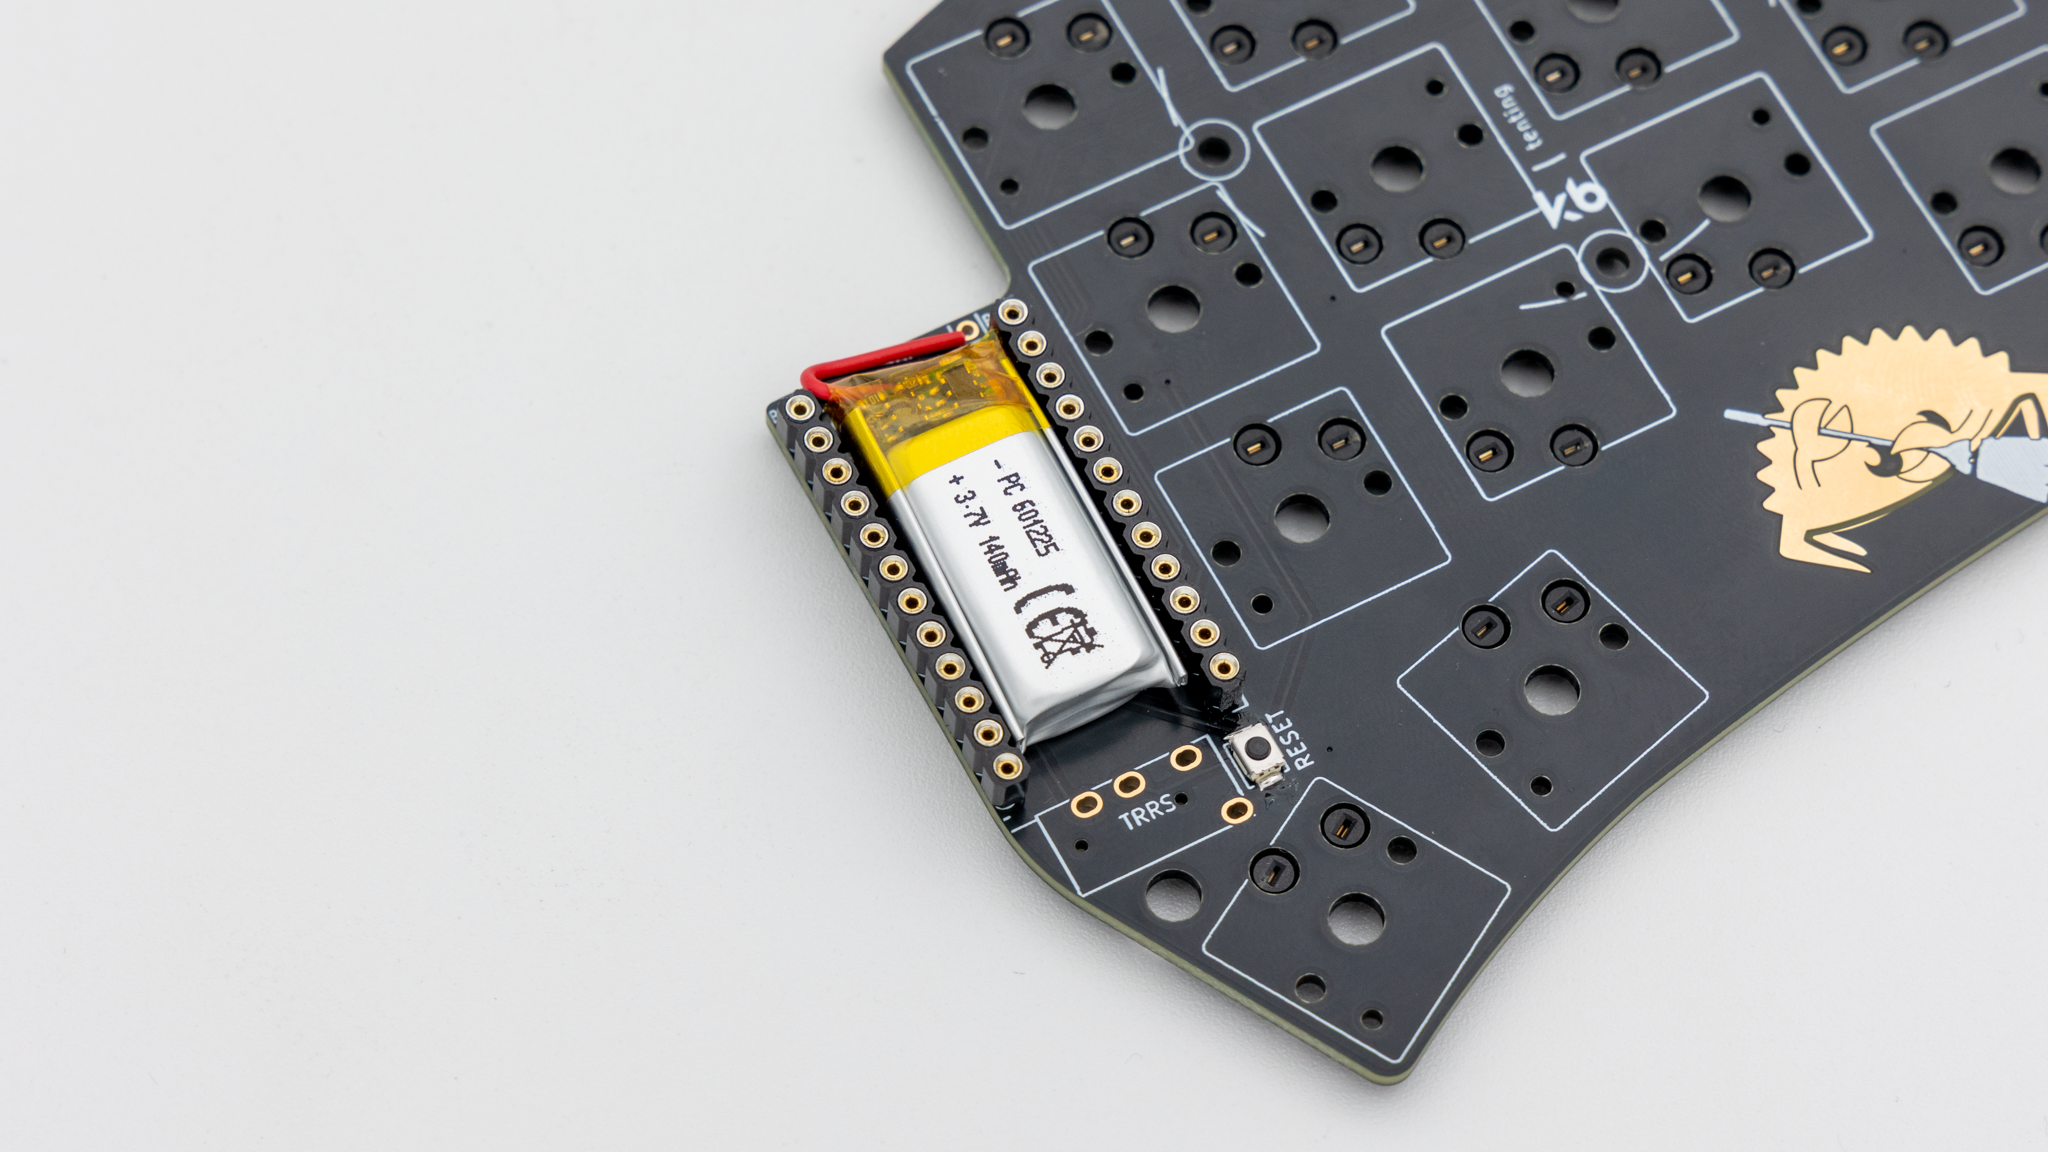
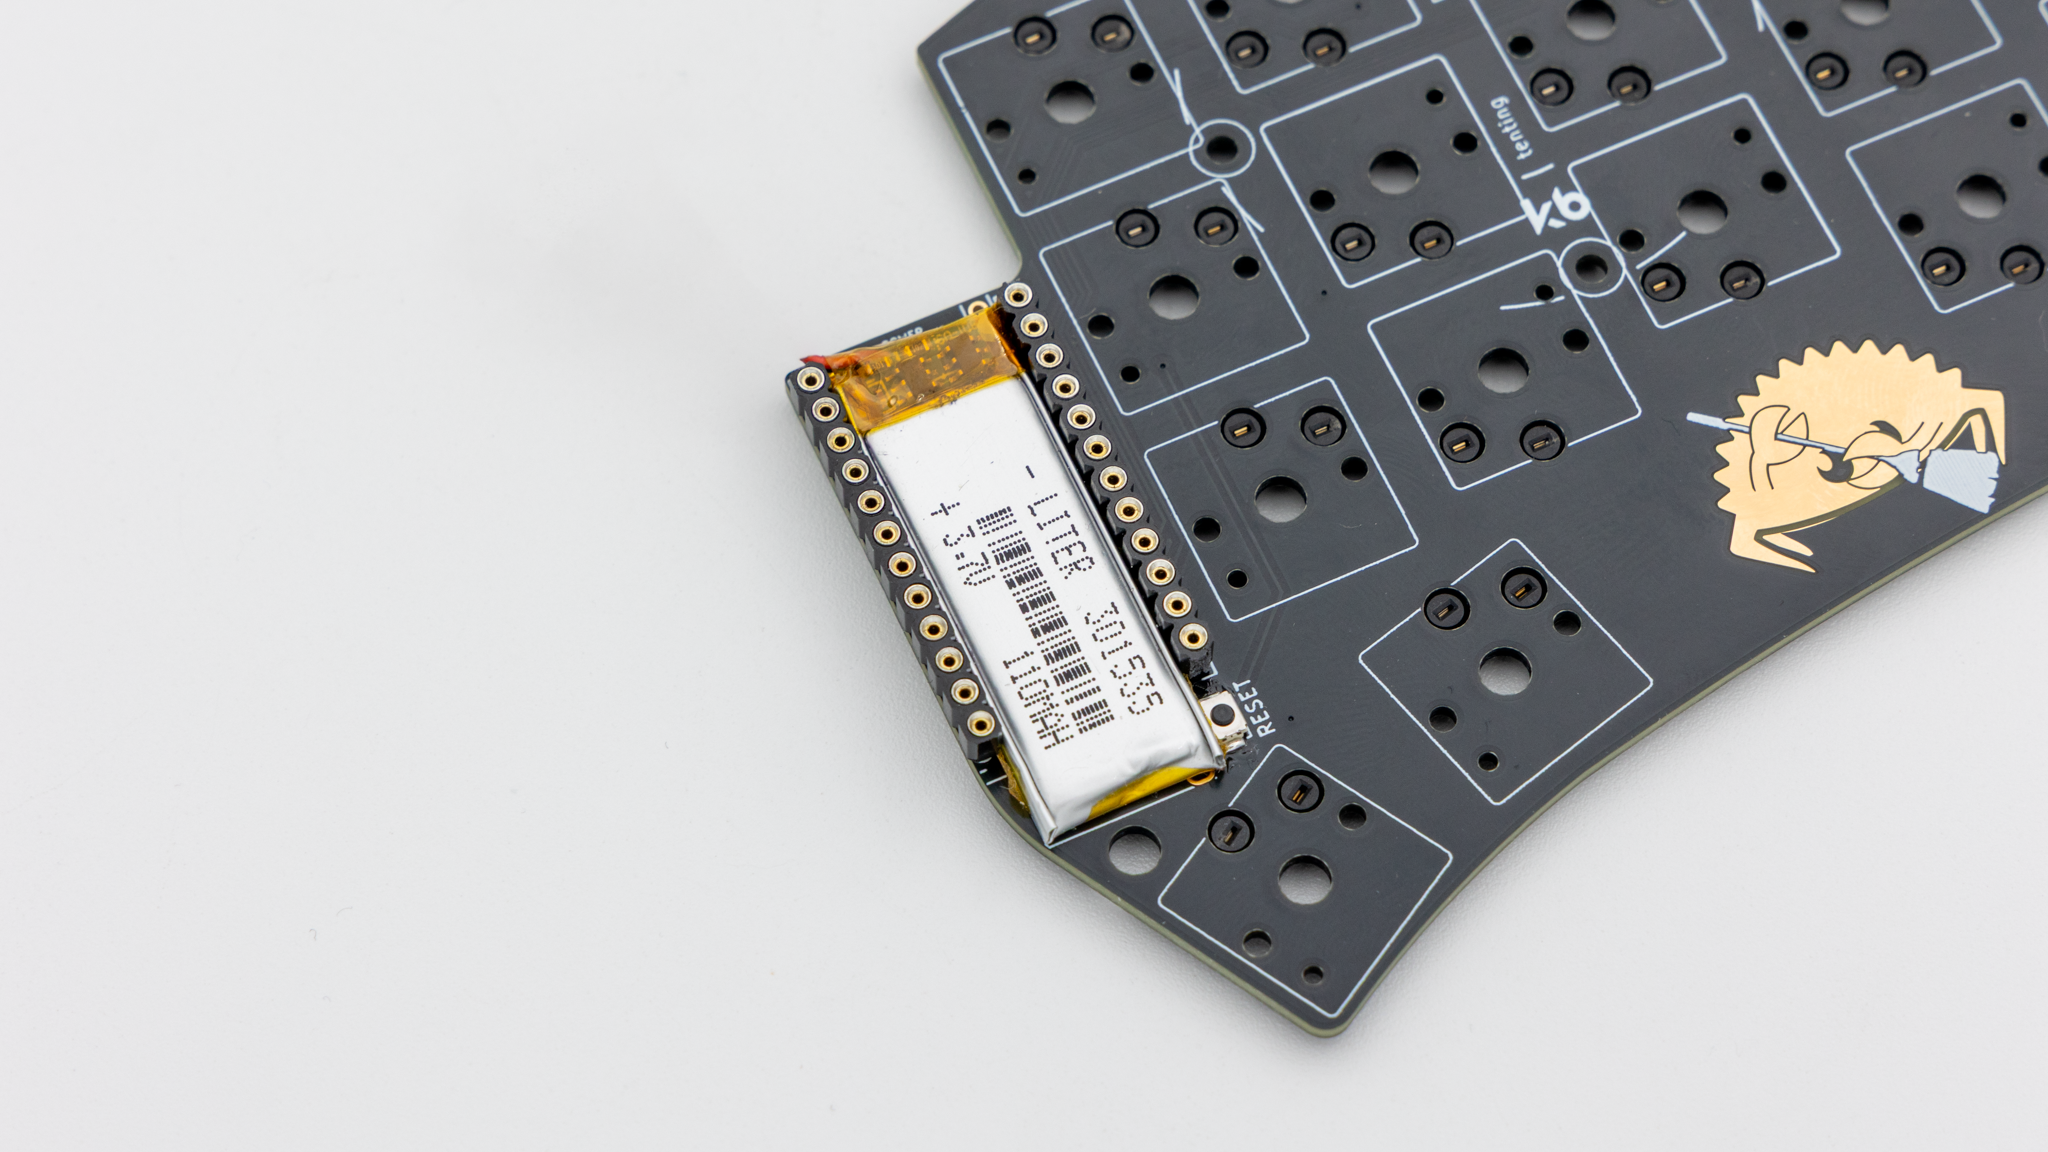
sweep bling lp inst done

Changed region(s): [[0.375, 0.0, 1.0, 0.9688], [0.6562, 0.5625, 0.6875, 0.5938]]

diff --git a/content/sweep-bling-lp/assembly/index.md b/content/sweep-bling-lp/assembly/index.md
@@ -51,19 +51,18 @@ Next solder on the standoffs for your controller. You need to use IC sockets wit
 
 #### Batteries
 
-Solder in the batteries on the marked pins at the top.
+If you bought the battery that we suggested, the fit will be quite tight. It's easiest if you slide it in from the top, since pushing it down will not work. Solder in the batteries on the marked pins at the top.
 ![batteries](battery-pcb.png)
 
 #### Controller
 
 Before soldering the controllers onto the PCB we should get your controller flashed.
-![pluto]()
+![nice!nano](nice!nano.png)
 
-Depending on which controller you use you will have to go about flashing them differently. You can find the firmware <a href="https://files.keeb.supply/firmware/DASBOB/" >here<a>. And instructions on how to flash a controller [here]({{< ref "/basics/firmware/flashing" >}}).<br>
-![qmk]()
+Depending on which controller you use you will have to go about flashing them differently. You can find the firmware <a href="https://files.keeb.supply/firmware/sweep-bling-lp/" >here<a>. And instructions on how to flash a controller [here]({{< ref "/basics/firmware/flashing" >}}).<br>
 
 Solder the controller to the headers now. Instructions on how to do that can be found [here]({{< ref "/basics/soldering/promicro#promicro" >}}). When you have the PCB in front of you, the USB port should go to the top of the PCB. You should not see the components of the controller, when it is sitting on the PCB.
-![controller]()
+![nice!nano-pcb](nice!nano-pcb.png)
 
 You can now skip to the [Final Assembly]({{< ref "/sweep-bling-lp/assembly#final-assembly" >}}) to continue.
 
@@ -89,7 +88,7 @@ Before soldering the controllers onto the PCB we should get your controller flas
 You can find the firmware <a href="https://files.keeb.supply/firmware/sweep-bling-lp/" >here<a>. And instructions on how to flash a controller [here]({{< ref "/basics/firmware/flashing" >}}).<br>
 
 Plug in your controller now and see if it pops up in [VIAL]({{< ref "/basics/firmware/viaandvial#VIAL" >}}).
-![vial]()
+![vial](sweep-vial.png)
 
 If it does you have successfully flashed your controller.
 
@@ -98,7 +97,7 @@ If your controller is working, you can solder it in. Instructions on how to do t
 
 When you have your controller soldered in, it is good practice to do a [matrix test]({{< ref "/basics/firmware/viaandvial#matrix-testing" >}}). Since the Sweep is a split keyboard, you need to plug in the two halves together using the TRRS cable.
 {{< alert icon="💡" text="Do not hotplug the TRRS cable, when your controllers are plugged into your PC. This can and will damage the board. Always unplug the keyboard from the PC, before plugging the TRRS cable in/out." />}}
-![matrix]()
+![matrix](sweep-matrix.png)
 
 You can now continue reading the Final Assembly to proceed.
 
@@ -114,4 +113,4 @@ As a last step put on your keycaps.
 ![caps](caps-pcb.png)
 
 And your Sweep keyboard is done!
-![dasbob-full-board]()
+![sweep-full-board](sweep-16-9.png)

diff --git a/content/sweep-bling-lp/required-supplies/index.md b/content/sweep-bling-lp/required-supplies/index.md
@@ -17,7 +17,7 @@ toc: true
 | -------------------------------------- | ---------------------------------------- | ---------------------------------------------------------------------------------------------------------------------- |
 |                                        |                                          |                                                                                                                        |
 | ![helios](helios.png)                  | 2 x ProMicro compatible micro controller | You will need to supply your own micro controllers. You can use a Helios for wired or a Nice!Nano for wireless builds. |
-| ![ic-socket]()                         | IC Sockets                               | You will need one IC Socket strip. This board will not work with solder headers!                                       |
-| ![millmax-pins]()                      | MillMax Pins                             | To use the IC Sockets you will need MillMax Pins.                                                                      |
+| ![ic-socket](ic-socket.png)            | 2 x IC Sockets                           | You will need one IC Socket strip per side. This board will not work with solder headers!                              |
+| ![millmax-pins](millmax.png)           | MillMax Pins                             | To use the IC Sockets you will need MillMax Pins.                                                                      |
 | ![soldering-iron](soldering-iron.webp) | soldering iron                           | We recommend a good soldering iron!                                                                                    |
 | ![solder](solder.webp)                 | solder                                   | Please use high quality solder (flux core or apply flux externally) to make your life easier when soldering this kit!  |

diff --git a/content/totem/packing-list/index.md b/content/totem/packing-list/index.md
@@ -28,8 +28,8 @@ toc: true
 | --------------------------- | ------------------------- | ------------------- |
 |                             |
 | ![case](case.jpg)           | 3D Printed Case           | 1 left<br />1 right |
-| ![standoffs](standoffs.jpg) | M2x6mm standoffs          | 8                   |
-| ![screws](screws.jpg)       | M2x6mm countersunk screws | 16                  |
+| ![standoffs](standoffs.jpg) | M2x9mm standoffs          | 8                   |
+| ![screws](screws.jpg)       | M2x5mm countersunk screws | 16                  |
 | ![feet](feet.jpg)           | rubber feet               | 8                   |
 | ![inbus](inbus.jpg)         | allen key                 | 1                   |
 

diff --git a/content/sweep-bling-lp/packing-list/index.md b/content/sweep-bling-lp/packing-list/index.md
@@ -43,5 +43,5 @@ Depending on the version, there will be different parts included in the kit.
 |                             |
 | ![switch](slide-switch.png) | Slide Switch | 2        |
 
-{{< alert icon="💡" text="To make the Ble version of the Sweep work, you will need to buy yourself a 751517 lithium polymer battery." />}}
-<br />If you don't have one already, try [this one](https://www.ebay.de/itm/233974438926).
+{{< alert icon="💡" text="To make the Ble version of the Sweep work, you will need to buy yourself a 301535 lithium polymer battery." />}}
+<br />If you don't have one already, try [this one](https://ebay.us/m/YSgT9k).
